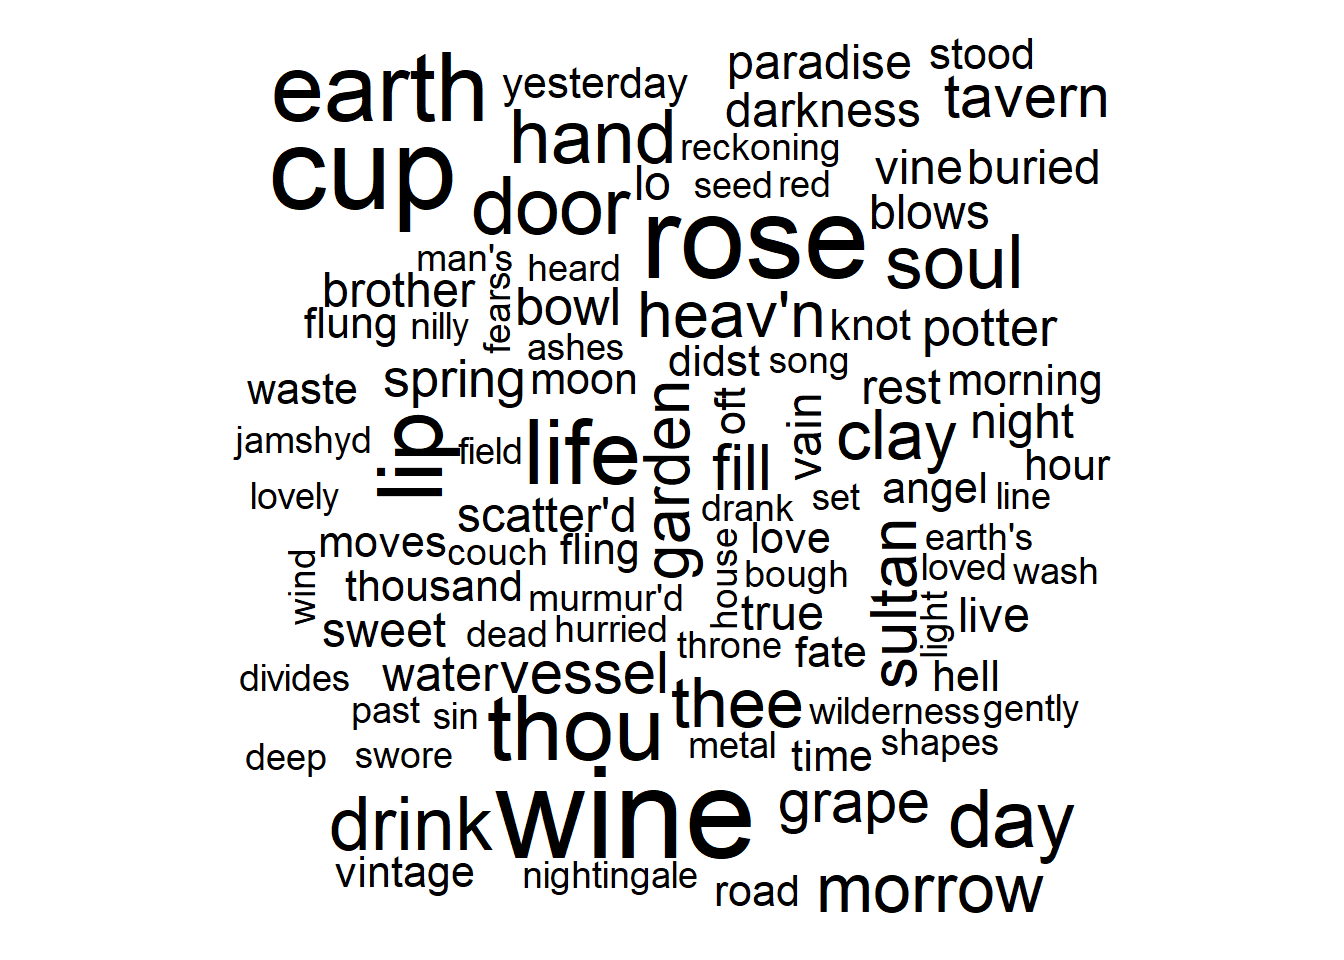
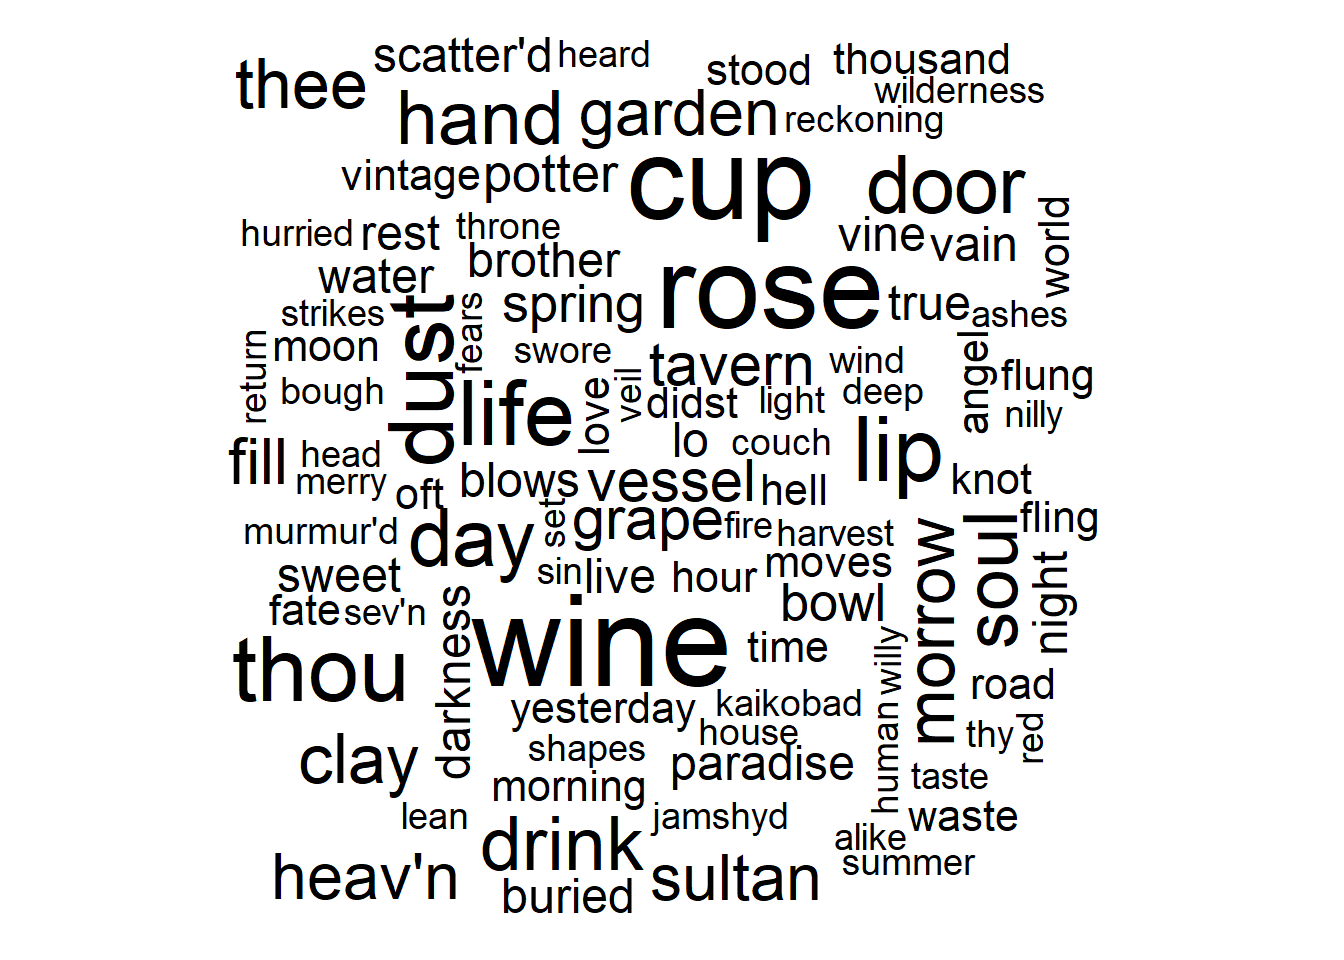
edition of text mining post

Changed region(s): [[0.1562, 0.0312, 0.8438, 0.9688]]

diff --git a/content/blog/2023-01-10-text-mining-of-khayyam-s-poems-using-r/index.html b/content/blog/2023-01-10-text-mining-of-khayyam-s-poems-using-r/index.html
@@ -61,29 +61,40 @@ library(topicmodels)</code></pre>
 </div>
 <div id="download-the-data" class="section level1">
 <h1>Download the data</h1>
-<p>So many books are accessible in the <strong><em>gutenbergr</em></strong> package. Every book has its own <strong><em>gutenberg_id</em></strong> and can be found via it. For more details you can refer to Help page of package. The <strong><em>gutenberg_id</em></strong> for Khayyam is <strong><em>246</em></strong>. Let’s take a look at it.</p>
+<div style="text-align: justify">
+So many books are accessible in the <strong><em>gutenbergr</em></strong> package. Every book has its own <strong><em>gutenberg_id</em></strong> and can be found via it. For more details you can refer to Help page of package. The <strong><em>gutenberg_id</em></strong> for Khayyam is <strong><em>246</em></strong>. Let’s take a look at it.
+<div/>
+
+
 <pre class="r"><code>khayyam &lt;- gutenberg_download(246)</code></pre>
 <pre><code>## Determining mirror for Project Gutenberg from https://www.gutenberg.org/robot/harvest</code></pre>
 <pre><code>## Using mirror http://aleph.gutenberg.org</code></pre>
 </div>
 <div id="preprocessing-of-data" class="section level1">
 <h1>Preprocessing of data</h1>
+<div style="text-align: justify">
 <p>
 We want just the poems in the book. So sections such as introduction, preface, appendix and references must be deleted from the text. The whole text of the book is accessible with <strong>view(khayyam)</strong> in <em>RStudio</em>.
 <p/>
+<div/>
+
 <div id="exclusion-of-non-related-data" class="section level2">
 <h2>Exclusion of non-related data</h2>
 <p>
 Before anything, it is better to do some data cleaning.
-As seen below, we remove and exclude rows 1:450 and 1878:2131 from our data.
+As seen below, we remove and exclude rows <strong>1:450</strong> and <strong>1878:2131</strong> from our data.
 <p/>
 <pre class="r"><code>khayyam &lt;- khayyam %&gt;% slice(-c(1:450, 1878:2131))</code></pre>
 </div>
 <div id="stop-words" class="section level2">
 <h2>Stop words</h2>
+<div style="text-align: justify">
 <p>
 In English (and obviously any other language), there are some words which are frequently used in every specific texts, but text analysis of them are not so useful. We called them <strong>Stop Words</strong>. <strong><em>R</em></strong> can detect and consider these words.
 <p/>
+<div/>
+
+
 <pre class="r"><code>tidy_khayyam &lt;- khayyam %&gt;%
     unnest_tokens(word, text) %&gt;%
     anti_join(stop_words)</code></pre>
@@ -168,12 +179,18 @@ tidy_khayyam %&gt;%
 ##  9 day      12
 ## 10 door     12
 ## # … with 1,085 more rows</code></pre>
+<div style="text-align: justify">
 <p>
-<strong>Wine</strong>, <strong>cup</strong>, <strong>rose</strong> are 3 most common words. In the following as well, there are words such as <strong>earth</strong>, <strong>dust</strong>, <strong>life</strong>, <strong>lip</strong> and etc. Well, what are these about? What do the wine and the cup refer to? What about the rose and the lip? and others.
+<strong>Wine</strong>, <strong>cup</strong>, <strong>rose</strong> are 3 most common words. In the following, as well, there are words such as <strong>earth</strong>, <strong>dust</strong>, <strong>life</strong>, <strong>lip</strong> and etc. Well, what are these about? What do the wine and the cup refer to? What about the rose and the lip? and also others.
 <p/>
+<div/>
+
+<div style="text-align: justify">
 <p>
-Maybe, it is obvious. The <em>wine</em> and the <em>cup</em> are referring to binge and having fun. On the other hand, rose is the symbol of lover in Persian poems and of course it has its own complivated means. Then, lip and rose could refer to <em>pleasure</em> and <em>carelessness</em> and of course <em>love</em>. It’s all about seizing the present moment.
+Maybe, it is obvious. The <em>wine</em> and the <em>cup</em> are referring to binge and having fun. On the other hand, rose is the symbol of lover in Persian poems and of course it has its own complicated means. Then, lip and rose could refer to <em>pleasure</em> and <em>carelessness</em> and of course <em>love</em>. It’s all about seizing the present moment.
 <p/>
+<div/>
+
 <p>Below, words repeated more than 10 times, have been shown.</p>
 <pre class="r"><code>library(ggplot2)
 tidy_khayyam %&gt;%
@@ -227,20 +244,21 @@ bing_word_counts %&gt;%
   count(word) %&gt;%
   with(wordcloud(word, n, max.words = 100))</code></pre>
 <pre><code>## Joining, by = &quot;word&quot;</code></pre>
-<pre><code>## Warning in wordcloud(word, n, max.words = 100): dust could not be fit on page.
-## It will not be plotted.</code></pre>
 <pre><code>## Warning in wordcloud(word, n, max.words = 100): round could not be fit on page.
 ## It will not be plotted.</code></pre>
-<pre><code>## Warning in wordcloud(word, n, max.words = 100): world could not be fit on page.
+<pre><code>## Warning in wordcloud(word, n, max.words = 100): earth could not be fit on page.
 ## It will not be plotted.</code></pre>
 <p><img src="{{< blogdown/postref >}}index_files/figure-html/unnamed-chunk-12-1.png" width="672" /></p>
 </div>
 </div>
 <div id="topic-modeling" class="section level1">
 <h1>Topic modeling</h1>
+<div style="text-align: justify">
 <p>
 Every document could be separated to different topics that each of them may have their own labels. Topic modeling is a method which can be used for this purpose. A popular topic modeling is <strong>Latent Dirichlet allocation (LDA)</strong>. Based on <em>LDA</em> each document is a mixture of topics and each topic is a mixture of words. In Khayyam’s poems, we hypothesize that it contains two different topics; however we can consider more topics too. But, if you are dealing with a document that include several chapters, you can set number of chapters as number of topics.
 <p/>
+<div/>
+
 <p>
 First of all, we must get the data ready to fit <strong>LDA</strong> model.
 <p/>
@@ -252,7 +270,7 @@ b = q %&gt;%
 <pre class="r"><code>ap_lda &lt;- LDA(b, k = 2, control = list(seed = 1234))
 ap_lda</code></pre>
 <pre><code>## A LDA_VEM topic model with 2 topics.</code></pre>
-<p>After fitting the model, we can estimate the <strong>per-topic-per-word probabilities, called β (“beta”)</strong>, from the model. Needless to say, that these values indicate the probabilities of that term being generated from that topic.</p>
+<p>After fitting the model, we can estimate the <strong>per-topic-per-word probabilities, called β (“beta”)</strong>, from the model. Needless to say that these values indicate the probabilities of that term being generated from that topic.</p>
 <pre class="r"><code>ap_topics &lt;- tidy(ap_lda, matrix = &quot;beta&quot;)
 ap_topics</code></pre>
 <pre><code>## # A tibble: 2,190 × 3
@@ -289,9 +307,13 @@ ap_top_terms %&gt;%
      facet_wrap(~ topic, scales = &quot;free&quot;) +
      scale_y_reordered()</code></pre>
 <p><img src="{{< blogdown/postref >}}index_files/figure-html/unnamed-chunk-16-1.png" width="672" /></p>
-<p>What does topic 1 say? the terms <strong>“rose”</strong>, <strong>“lip”</strong>, <strong>“wine”</strong>, <strong>“thee”</strong>. It seems that <em>Khayyam</em> is talking about relationship with lover, kiss and drinking a wine with a partner.
+<div style="text-align: justify">
+What does topic 1 say? the terms <strong>“rose”</strong>, <strong>“lip”</strong>, <strong>“wine”</strong>, <strong>“thee”</strong>. It seems that <em>Khayyam</em> is talking about relationship with lover, kiss and drinking a wine with a partner.
 What about topic 2? There are terms such as <strong>“wine”</strong>, <strong>“hand”</strong>, <strong>“drink”</strong> and <strong>“grape”</strong>. If you have read Khayyam’s poems, you know that he mostly wrote and composed about holding a cup, drinking the wine and enjoying the life. On the other hand, it was a boom age of pottery in ancient times (almost 1000 years ago) in Iran. Khayyam believed that the bodies of died and buried people turn into soil and dust over time and roses grow from that dust.
-He believed that the pottery we use are made from the soil and dust of dead people and one day, the pottery will be made from our soil and dust for next generations(e.g. hundred year later). Therefore, We should treat pottery with respect because it is made from other people’s soil. Time is very very short and we should appreciate and enjoy the short moments of life.</p>
+He believed that the pottery we use are made from the soil and dust of dead people and one day, the pottery will be made from our soil and dust for next generations(e.g. hundred year later). Therefore, We should treat pottery with respect because it is made from other people’s soil. Time is very very short and we should appreciate and enjoy the short moments of life.
+<div/>
+
+
 <pre class="r"><code>beta_wide &lt;- ap_topics %&gt;%
      mutate(topic = paste0(&quot;topic&quot;, topic)) %&gt;%
      pivot_wider(names_from = topic, values_from = beta) %&gt;% 
@@ -312,19 +334,22 @@ beta_wide</code></pre>
 ##  9 day   0.00789 0.00218    -1.86 
 ## 10 door  0.00581 0.00435    -0.417
 ## # … with 534 more rows</code></pre>
+<div style="text-align: justify">
 <p>
-In this output, we see that the term “wine” is more likely to belong to topic 2. On the other hand, terms “cup” and “rose” are more likely to belong to topic 1. Based on the results, we can labels to each of topics, but we don’t do that and leave it to the taste of the readers.
+In this output, we see that the term “wine” is more likely to belong to topic 2. On the other hand, terms “cup” and “rose” are more likely to belong to topic 1. Based on the results, we can labels to each of topics, but we don’t do that and leave it to the taste of the dear readers.
 <p/>
+<div/>
+
 </div>
 <div id="conclusion" class="section level1">
 <h1>Conclusion</h1>
+<div style="text-align: justify">
 <p>
-<p>We introduced the basics concepts of text mining. Clearly, we didn’t delve into details. In a nutshell, we analyzed the Khayyam’s poems. We saw that Khayyam believes in joy. I’ll highly recommend you to read his poems and personally discover his mindset. If we want to summarize his thought and world view in one sentence, that sentence will be this:</p>
+We introduced the basics concepts of text mining. Clearly, we didn’t delve into details. In a nutshell, we analyzed the Khayyam’s poems. We saw that Khayyam believes in joy. I highly recommend you to read his poems and personally discover his mindset. If we want to summarize his thought and world view in one sentence, that sentence will be this:
+<div/>
+
 <blockquote>
 <p>Life is short. Always choose happiness.</p>
 </blockquote>
 <p/>
-<div/>
-
-
 </div>
